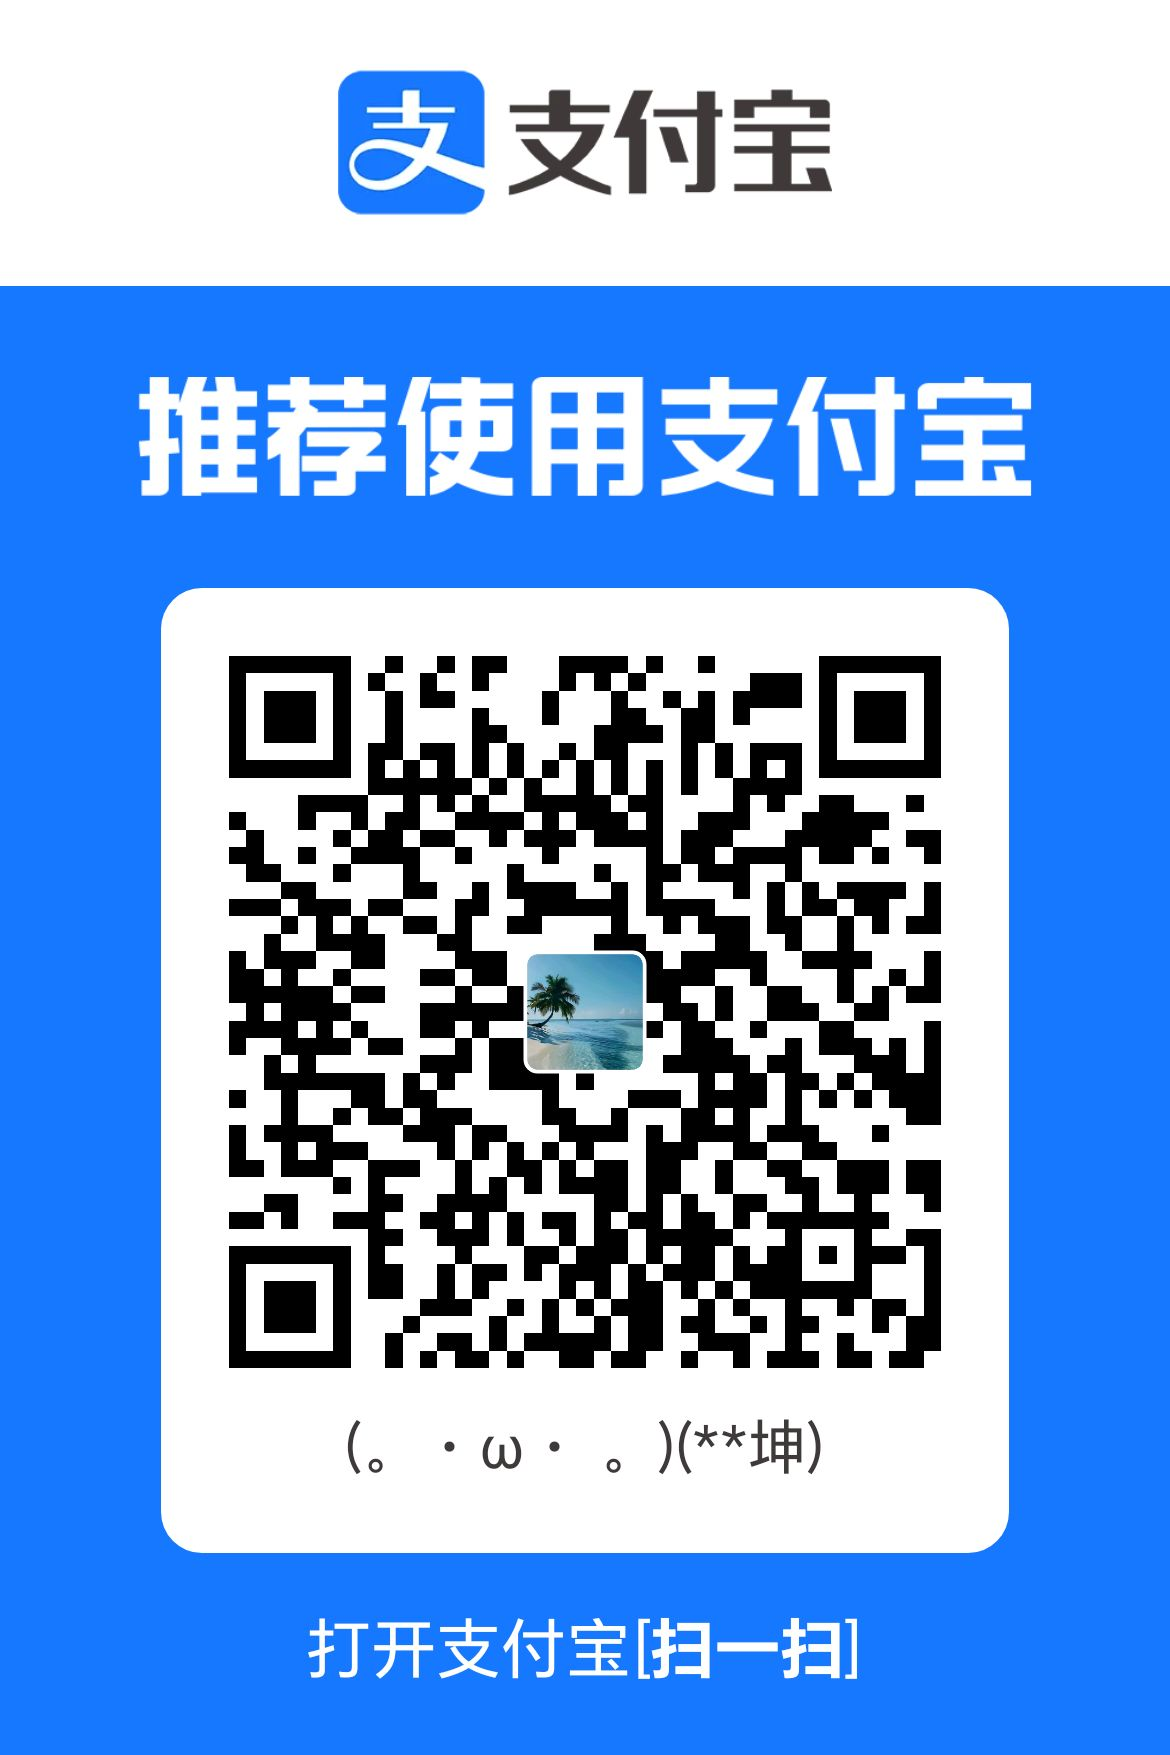
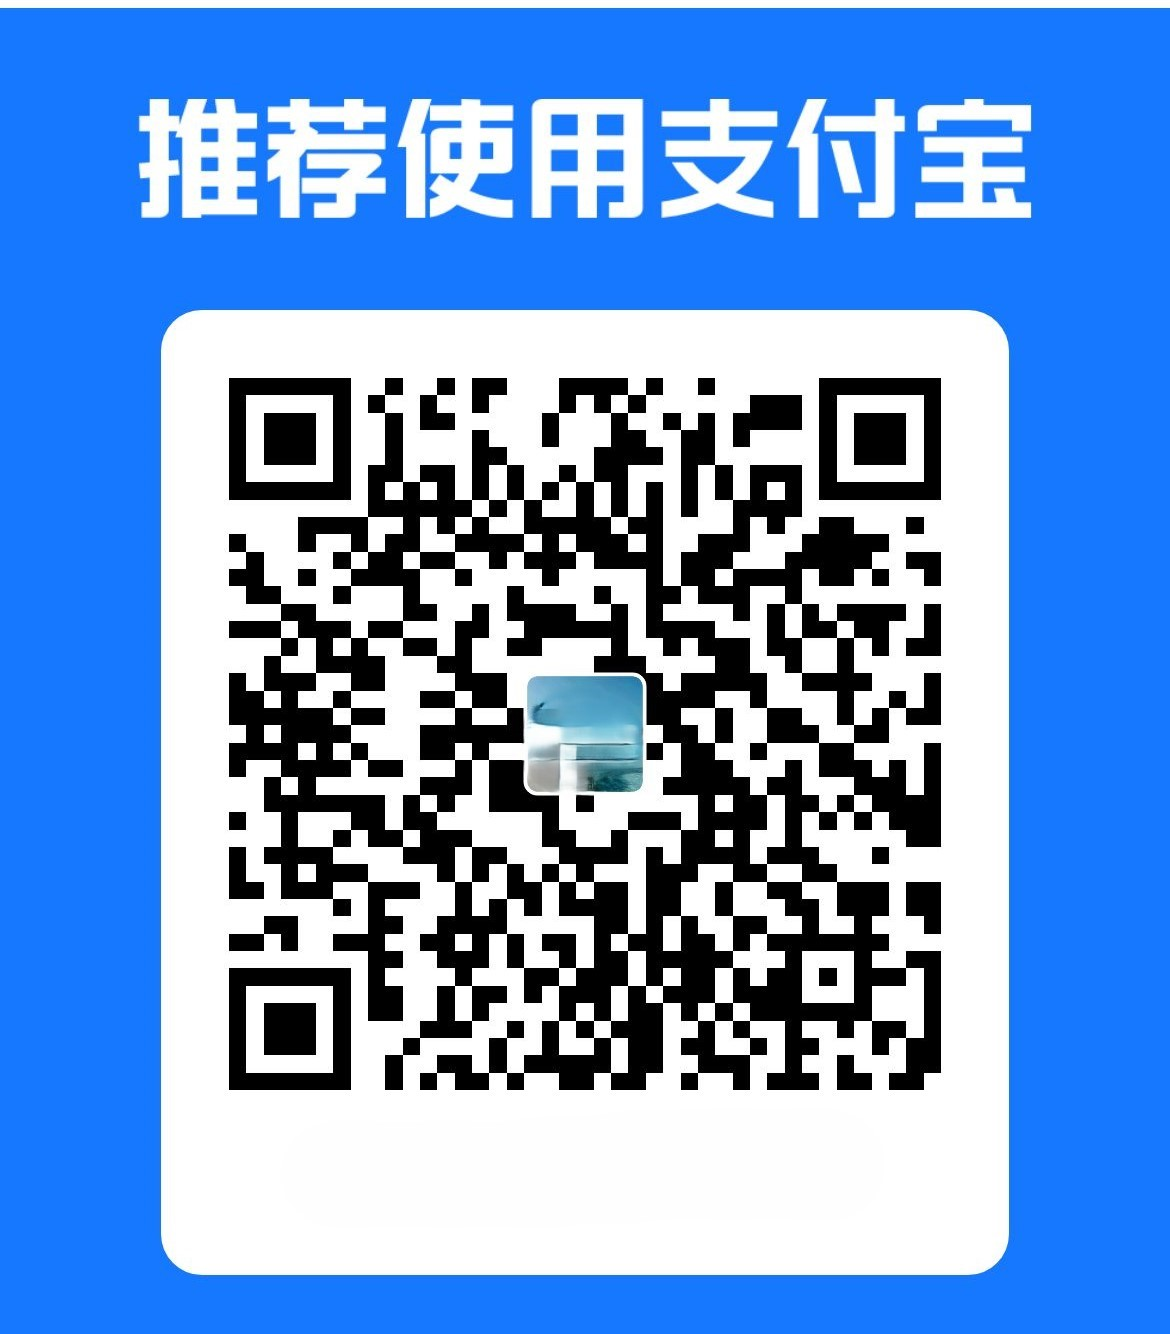
docs: README 封面布局优化 + 支付二维码更新

diff --git a/README.md b/README.md
@@ -1,21 +1,18 @@
 <div align="center">
 
 # ClipForge · 把知识变成短视频
-
 告诉它你想讲什么，它帮你写稿、配音、做画面、出成片。 [![License: Apache 2.0](https://img.shields.io/badge/License-Apache%202.0-blue.svg)](LICENSE)
 
 </div>
 
 <div align="center">
 
-| | | | | |
-|:---:|:---:|:---:|:---:|:---:|
-| <img src="docs/images/showcase/cover-daily.png" width="140"> | <img src="docs/images/showcase/cover-spotlight.png" width="140"> | <img src="docs/images/showcase/cover-tech-dispatch.png" width="140"> | <img src="docs/images/showcase/cover-internet-reports.png" width="140"> | <img src="docs/images/showcase/cover-weekly.png" width="140"> |
-| GitHub 星探 · 每日热门 | 开源亮点 · 单项目深度 | 科技速递 · 行业趋势 | 互联网报告 · 深度解读 | 周度汇总 · 一周精选 |
-
-▲ 以上每一条视频，都是 ClipForge 自动生成的。不是 PPT 翻页，不是图片拼接 — 有动画、有旁白、有配乐，是真正的短视频。
-
+|                                                              | | | | |
+|:------------------------------------------------------------:|:---:|:---:|:---:|:---:|
+| <img src="docs/images/showcase/cover-daily.png" width="160"> | <img src="docs/images/showcase/cover-spotlight.png" width="160"> | <img src="docs/images/showcase/cover-tech-dispatch.png" width="160"> | <img src="docs/images/showcase/cover-internet-reports.png" width="160"> | <img src="docs/images/showcase/cover-weekly.png" width="160"> |
+|                       GitHub 星探 · 每日热门                       | 开源亮点 · 单项目深度 | 科技速递 · 行业趋势 | 互联网报告 · 深度解读 | 周度汇总 · 一周精选 |
 </div>
+▲ 以上每一条视频，都是 ClipForge 自动生成的。不是 PPT 翻页，不是图片拼接 — 有动画、有旁白、有配乐，是真正的短视频。
 
 ---
 
